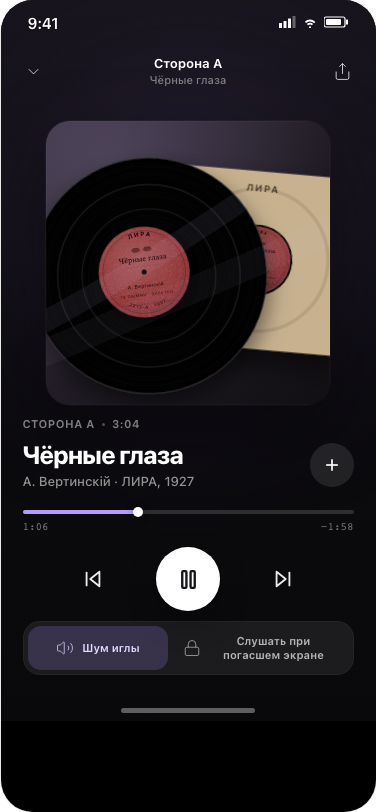
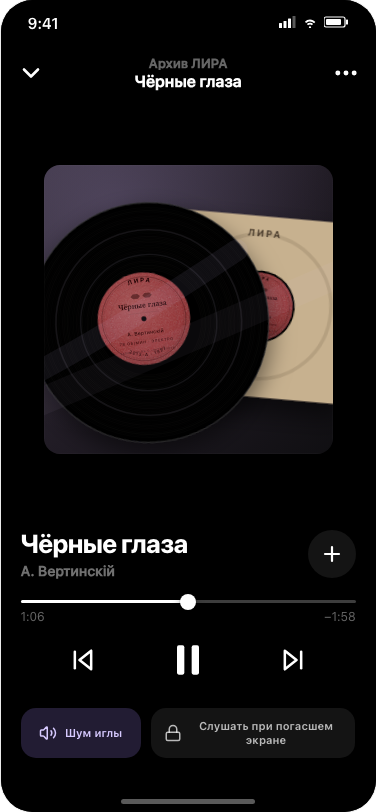
Align Shellac player composition with VK Music

diff --git a/platform/concepts/shellac/styles.css b/platform/concepts/shellac/styles.css
@@ -449,7 +449,7 @@
 }
 .sm-detail-head>span { font:650 13px/18px var(--face); }
 .sm-detail-head .sm-icon-btn { width:44px; height:44px; }
-.sm-detail-head .sm-icon-btn svg { width:22px; height:22px; stroke-width:2.25; }
+.sm-detail-head .sm-icon-btn svg { width:24px; height:24px; stroke-width:2.25; }
 .sm-detail-scroll { padding:4px 20px 38px!important; }
 .sm-album-art { width:270px; height:270px; margin:4px auto 22px; border-radius:21px; background-size:cover; background-position:center; box-shadow:0 26px 56px rgba(0,0,0,.48); }
 .sm-album-copy { text-align:center; }
@@ -479,39 +479,40 @@
 .sm-meta dt,.sm-meta dd { margin:0; font:500 12px/16px var(--face); }
 .sm-meta dt { color:var(--sm-muted); }.sm-meta dd { color:var(--sm-text); text-align:right; }
 
-.sm-player-screen { position:relative; overflow:hidden; background:linear-gradient(180deg,#17141d 0%,#0c0b0f 51%,#09090b 100%)!important; }
-.sm-player-screen::before { content:""; width:330px; height:330px; position:absolute; z-index:0; left:22px; top:76px; border-radius:50%; background:rgba(124,91,172,.26); filter:blur(72px); opacity:.62; pointer-events:none; }
-.sm-player-head,.sm-player-body { position:relative; z-index:1; }
-.sm-player-screen .home-ind { z-index:2; }
-.sm-player-head>div { text-align:center; }
-.sm-player-head span,.sm-player-head strong { display:block; }
-.sm-player-head strong { color:#fff; font:650 13px/16px var(--face); }
-.sm-player-head span { margin-top:2px; color:rgba(255,255,255,.46); font:500 11px/14px var(--face); letter-spacing:0; }
-.sm-player-head .sm-icon-btn { width:40px; height:40px; background:transparent; }
-.sm-player-head .sm-icon-btn svg { width:19px; height:19px; }
-.sm-player-body { flex:1; min-height:0; padding:8px 22px calc(var(--safe-bottom) + 12px); box-sizing:border-box; display:grid; grid-template-rows:auto minmax(0,1fr) auto; }
-.sm-player-art { width:284px; height:284px; margin:18px auto 0; border-radius:24px; background-size:cover; background-position:center; box-shadow:0 28px 68px rgba(0,0,0,.5),0 0 0 1px rgba(255,255,255,.04); }
-.sm-playback { width:100%; align-self:center; padding:12px 0 4px; }
-.sm-side-caption { margin-bottom:9px; display:flex; align-items:center; gap:7px; color:rgba(255,255,255,.48); font:650 11px/14px var(--face); letter-spacing:.045em; text-transform:uppercase; }
-.sm-side-caption i { width:3px; height:3px; border-radius:50%; background:rgba(255,255,255,.28); }
-.sm-now-copy { display:flex; align-items:center; justify-content:space-between; gap:12px; }
-.sm-now-copy h1 { margin:0; color:#fff; font:760 25px/29px var(--face); letter-spacing:-.035em; }
-.sm-now-copy p { margin:4px 0 0; color:rgba(255,255,255,.56); font:500 13px/17px var(--face); }
-.sm-favorite { width:44px; height:44px; flex:none; border:0; border-radius:50%; display:grid; place-items:center; background:rgba(255,255,255,.1); color:#fff; }
-.sm-favorite svg { width:20px; height:20px; fill:none; stroke:currentColor; stroke-width:2; }
-.sm-progress { height:4px; margin-top:20px; overflow:visible; border-radius:4px; background:rgba(255,255,255,.15); }
-.sm-progress i { display:block; width:35%; height:100%; position:relative; border-radius:inherit; background:#b59aff; }
-.sm-progress i::after { content:""; width:10px; height:10px; position:absolute; right:-5px; top:-3px; border-radius:50%; background:#fff; box-shadow:0 2px 8px rgba(0,0,0,.35); }
-.sm-time { margin-top:6px; display:flex; justify-content:space-between; color:rgba(255,255,255,.45); font:500 11px/13px var(--mono); }
-.sm-player-controls { width:238px; height:76px; margin:8px auto 0; display:flex; align-items:center; justify-content:space-between; }
-.sm-player-controls button { width:48px; height:48px; border:0; display:grid; place-items:center; background:none; color:rgba(255,255,255,.92); }
-.sm-player-controls svg { width:22px; height:22px; fill:none; stroke:currentColor; stroke-width:2; stroke-linecap:round; stroke-linejoin:round; }
-.sm-player-controls .sm-pause { width:64px; height:64px; border-radius:50%; background:#fff; color:#151419; box-shadow:0 12px 30px rgba(0,0,0,.3); }
-.sm-player-controls .sm-pause svg { width:25px; height:25px; stroke-width:2.25; }
-.sm-player-options { min-height:54px; padding:5px; display:grid; grid-template-columns:1fr 1.25fr; gap:4px; border-radius:17px; background:rgba(255,255,255,.075); box-shadow:inset 0 0 0 1px rgba(255,255,255,.045); }
-.sm-player-options button { min-height:44px; padding:0 11px; border:0; border-radius:13px; display:flex; align-items:center; justify-content:center; gap:8px; color:rgba(255,255,255,.67); background:transparent; }
-.sm-player-options button.is-on { color:#e1d8ff; background:rgba(169,140,255,.2); }
-.sm-player-options svg { width:18px; height:18px; flex:none; fill:none; stroke:currentColor; }
+.sm-player-screen { overflow:hidden; background:#000!important; }
+.sm-player-head { min-height:calc(var(--safe-top) + 52px); padding:var(--safe-top) 10px 0; position:relative; z-index:2; box-sizing:border-box; display:grid; grid-template-columns:40px 1fr 40px; align-items:center; }
+.sm-player-head-copy { min-width:0; text-align:center; }
+.sm-player-head-copy span,.sm-player-head-copy strong { display:block; overflow:hidden; text-overflow:ellipsis; white-space:nowrap; }
+.sm-player-head-copy span { color:rgba(255,255,255,.4); font:590 13px/14px var(--face); letter-spacing:-.01em; }
+.sm-player-head-copy strong { margin-top:2px; color:#fff; font:590 16px/19px var(--face); letter-spacing:-.01em; }
+.sm-vk-nav { width:40px; height:40px; padding:0; border:0; display:grid; place-items:center; color:#fff; background:transparent; }
+.sm-vk-nav>svg { width:28px; height:28px; stroke-width:2.25; }
+.sm-player-body { flex:1; min-height:0; padding-bottom:var(--safe-bottom); display:flex; flex-direction:column; }
+.sm-player-art-zone { flex:1; min-height:300px; padding:10px; display:flex; align-items:center; justify-content:center; }
+.sm-player-art { width:289px; height:289px; flex:none; border-radius:16px; background-size:cover; background-position:center; box-shadow:0 22px 64px rgba(0,0,0,.38); }
+.sm-playback { flex:none; min-width:0; }
+.sm-now-copy { padding:8px 20px; display:flex; align-items:center; justify-content:space-between; gap:14px; }
+.sm-now-copy h1 { max-width:280px; margin:0; color:#fff; font:760 26px/30px var(--face); letter-spacing:-.035em; }
+.sm-now-copy p { margin:4px 0 0; color:rgba(255,255,255,.44); font:540 14px/18px var(--face); letter-spacing:-.01em; }
+.sm-favorite { width:48px; height:48px; flex:none; padding:0; border:0; border-radius:50%; display:grid; place-items:center; color:#fff; background:rgba(255,255,255,.08); backdrop-filter:blur(8px); }
+.sm-favorite svg { width:24px; height:24px; stroke-width:2.2; }
+.sm-timeline { padding:0 20px; }
+.sm-progress { height:3px; margin-top:12px; position:relative; border-radius:2px; background:rgba(255,255,255,.24); }
+.sm-progress i { display:block; width:50%; height:100%; position:relative; border-radius:inherit; background:#fff; }
+.sm-progress i::after { content:""; width:16px; height:16px; position:absolute; right:-8px; top:-6.5px; border-radius:50%; background:#fff; box-shadow:0 2px 8px rgba(0,0,0,.35),0 0 0 1px rgba(0,0,0,.08); }
+.sm-time { height:18px; margin-top:7px; display:flex; justify-content:space-between; color:rgba(255,255,255,.4); font:400 12px/14px var(--face); }
+.sm-player-controls { height:80px; padding-bottom:16px; box-sizing:border-box; display:flex; align-items:center; justify-content:center; }
+.sm-player-controls button { padding:0; border:0; display:grid; place-items:center; color:#fff; background:transparent; }
+.sm-transport { width:238px; display:flex; align-items:center; justify-content:space-between; }
+.sm-transport button { width:28px; height:28px; }
+.sm-transport button svg { width:28px; height:28px; stroke-width:2.15; }
+.sm-transport .sm-pause { width:60px; height:60px; }
+.sm-transport button:not(.sm-pause) svg polygon { fill:currentColor; stroke:none; }
+.sm-transport .sm-pause svg { width:44px; height:44px; fill:currentColor; stroke:none; }
+.sm-player-options { margin:0 20px 20px; display:grid; grid-template-columns:.85fr 1.45fr; gap:10px; }
+.sm-player-options button { min-height:50px; padding:0 13px; border:0; border-radius:15px; display:flex; align-items:center; justify-content:center; gap:8px; color:rgba(255,255,255,.7); background:rgba(255,255,255,.08); }
+.sm-player-options button.is-on { color:#d7caff; background:rgba(169,140,255,.2); }
+.sm-player-options svg { width:18px; height:18px; flex:none; stroke-width:2; }
 .sm-player-options span { font:620 11px/14px var(--face); }
 
 .sm-library-shortcuts { display:grid; grid-template-columns:1fr 1fr; gap:10px; }

diff --git a/platform/concepts/shellac/screens/player.html b/platform/concepts/shellac/screens/player.html
@@ -1,33 +1,39 @@
 <div class="screen sm-screen sm-player-screen" id="scr-player">
   <header class="sm-player-head">
-    <button class="sm-icon-btn tap" data-back aria-label="Свернуть плеер"><svg><use href="#i-chevron-down"/></svg></button>
-    <div><strong>Сторона A</strong><span>Чёрные глаза</span></div>
-    <button class="sm-icon-btn tap" data-toast="Ссылка скопирована · shellac.app/rec/2213-А" aria-label="Поделиться"><svg><use href="#i-share"/></svg></button>
+    <button class="sm-vk-nav tap" data-back aria-label="Свернуть плеер"><svg class="ico-svg"><use href="#i-chevron-down"/></svg></button>
+    <div class="sm-player-head-copy"><span>Архив ЛИРА</span><strong>Чёрные глаза</strong></div>
+    <button class="sm-vk-nav tap" data-toast="Меню трека" aria-label="Ещё"><svg class="ico-svg"><use href="#i-ellipsis"/></svg></button>
   </header>
 
   <div class="sm-player-body">
-    <div class="sm-player-art art-player" role="img" aria-label="Конверт и пластинка «Чёрные глаза»"></div>
+    <div class="sm-player-art-zone">
+      <div class="sm-player-art art-player" role="img" aria-label="Конверт и пластинка «Чёрные глаза»"></div>
+    </div>
 
-    <div class="sm-playback">
-      <div class="sm-side-caption"><span>Сторона A</span><i></i><span>3:04</span></div>
+    <section class="sm-playback">
       <div class="sm-now-copy">
-        <div><h1>Чёрные глаза</h1><p>А. Вертинскій · ЛИРА, 1927</p></div>
-        <button class="sm-favorite tap" data-toast="Добавлено в «Мою музыку»" aria-label="Добавить в мою музыку"><svg><use href="#i-plus"/></svg></button>
+        <div><h1>Чёрные глаза</h1><p>А. Вертинскій</p></div>
+        <button class="sm-favorite tap" data-toast="Добавлено в «Мою музыку»" aria-label="Добавить в мою музыку"><svg class="ico-svg"><use href="#i-plus"/></svg></button>
       </div>
 
-      <div class="sm-progress"><i></i></div>
-      <div class="sm-time"><span>1:06</span><span>−1:58</span></div>
+      <div class="sm-timeline">
+        <div class="sm-progress"><i></i></div>
+        <div class="sm-time"><span>1:06</span><span>−1:58</span></div>
+      </div>
+
       <div class="sm-player-controls">
-        <button class="tap" aria-label="Предыдущая сторона"><svg viewBox="0 0 24 24"><polygon points="19 20 9 12 19 4 19 20"/><line x1="5" x2="5" y1="19" y2="5"/></svg></button>
-        <button class="sm-pause tap" aria-label="Пауза"><svg><use href="#i-pause"/></svg></button>
-        <button class="tap" aria-label="Следующая сторона"><svg viewBox="0 0 24 24"><polygon points="5 4 15 12 5 20 5 4"/><line x1="19" x2="19" y1="5" y2="19"/></svg></button>
+        <div class="sm-transport">
+          <button class="tap" aria-label="Предыдущая сторона"><svg class="ico-svg"><use href="#i-skip-back"/></svg></button>
+          <button class="sm-pause tap" aria-label="Пауза"><svg class="ico-svg"><use href="#i-pause"/></svg></button>
+          <button class="tap" aria-label="Следующая сторона"><svg class="ico-svg"><use href="#i-skip-forward"/></svg></button>
+        </div>
       </div>
-    </div>
 
-    <div class="sm-player-options">
-      <button class="tap is-on" data-toast="Шум иглы включён — играет нереставрированная дорожка"><svg><use href="#i-volume-2"/></svg><span>Шум иглы</span></button>
-      <button class="tap" data-activate="audio|background"><svg><use href="#i-lock"/></svg><span>Слушать при погасшем экране</span></button>
-    </div>
+      <div class="sm-player-options">
+        <button class="tap is-on" data-toast="Шум иглы включён — играет нереставрированная дорожка"><svg class="ico-svg"><use href="#i-volume-2"/></svg><span>Шум иглы</span></button>
+        <button class="tap" data-activate="audio|background"><svg class="ico-svg"><use href="#i-lock"/></svg><span>Слушать при погасшем экране</span></button>
+      </div>
+    </section>
   </div>
   <div class="home-ind"></div>
 </div>

diff --git a/platform/concepts/shellac/screens/record.html b/platform/concepts/shellac/screens/record.html
@@ -1,5 +1,5 @@
 <div class="screen sm-screen sm-detail-screen" id="scr-record">
-  <header class="sm-detail-head"><button class="sm-icon-btn tap" data-back aria-label="Назад на главную"><svg><use href="#i-chevron-left"/></svg></button><span>Релиз</span><button class="sm-icon-btn tap" data-toast="Ссылка скопирована · shellac.app/rec/2213-А" aria-label="Поделиться"><svg><use href="#i-share"/></svg></button></header>
+  <header class="sm-detail-head"><button class="sm-icon-btn tap" data-back aria-label="Назад на главную"><svg class="ico-svg"><use href="#i-chevron-left"/></svg></button><span>Релиз</span><button class="sm-icon-btn tap" data-toast="Меню релиза" aria-label="Ещё"><svg class="ico-svg"><use href="#i-ellipsis"/></svg></button></header>
   <div class="body-scroll sm-detail-scroll">
     <div class="sm-album-art art-s1" role="img" aria-label="Конверт пластинки «Чёрные глаза», лейбл ЛИРА"></div>
     <div class="sm-album-copy"><span class="sm-kicker">ПЛАСТИНКА · 1927</span><h1>Чёрные глаза</h1><p>А. Вертинскій · ЛИРА</p><span class="sm-matrix">2213-А / 2213-Б</span></div>
